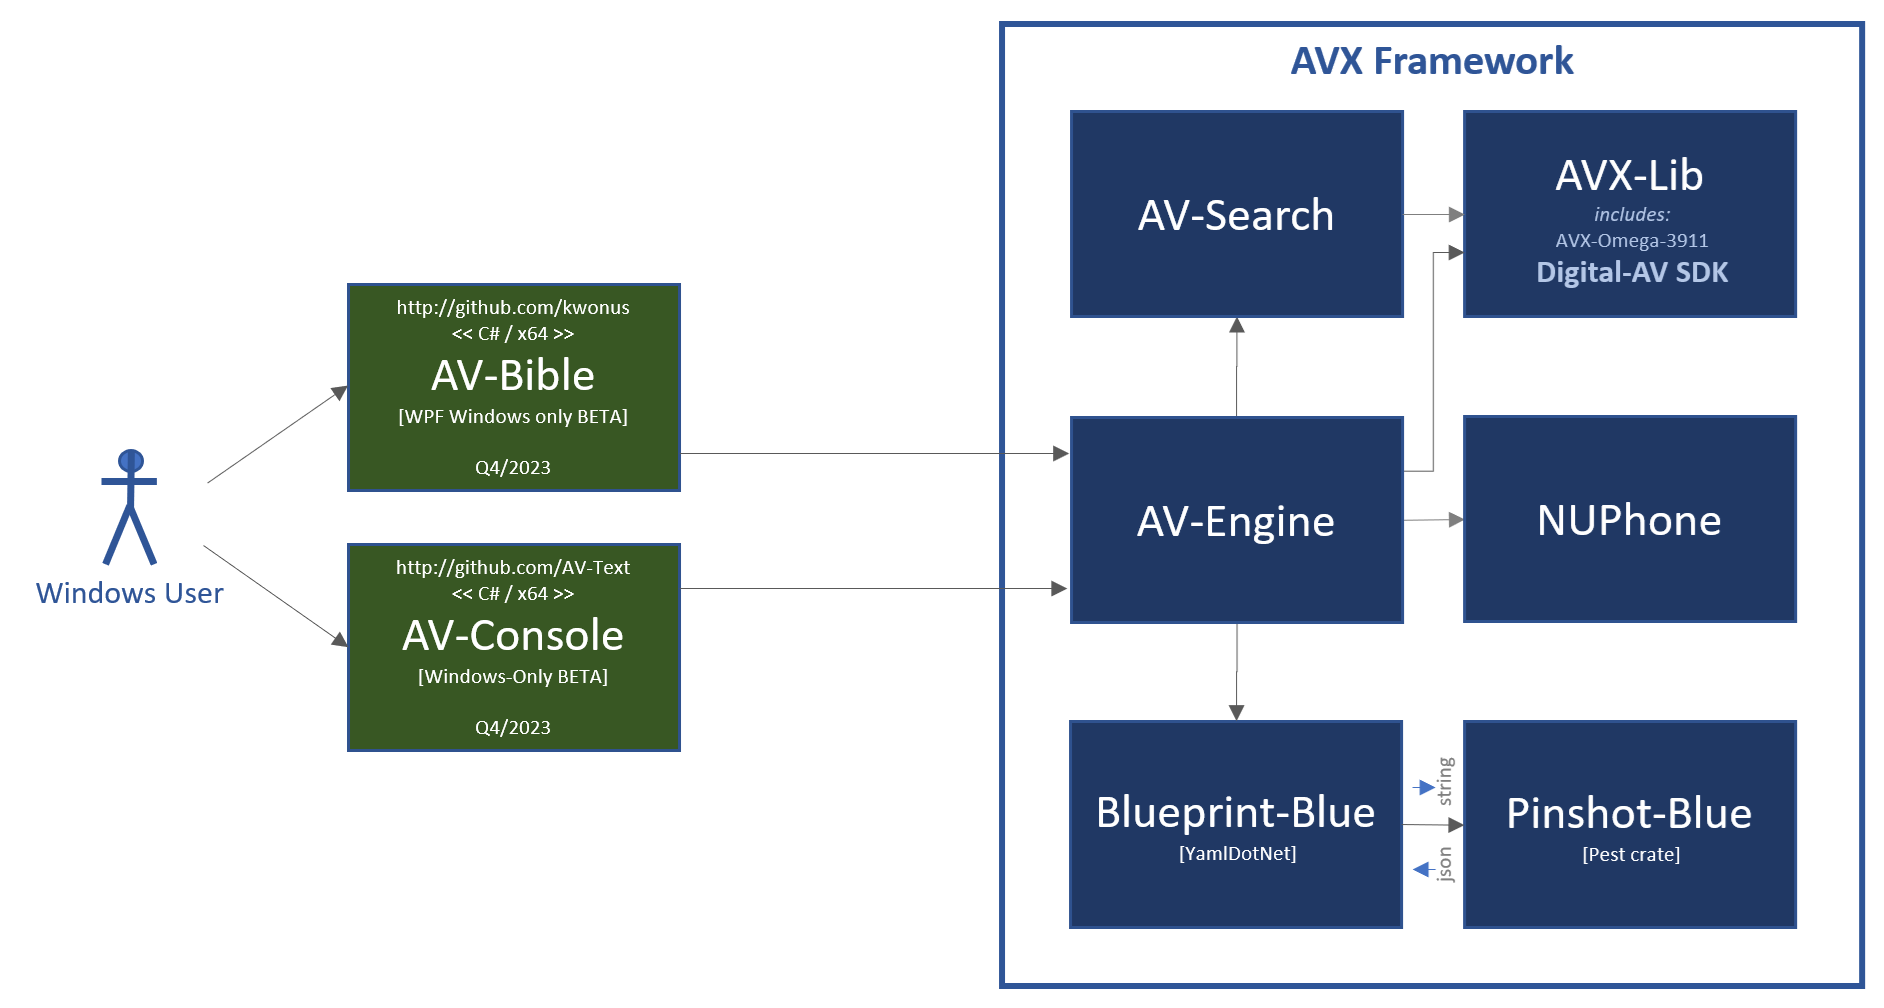
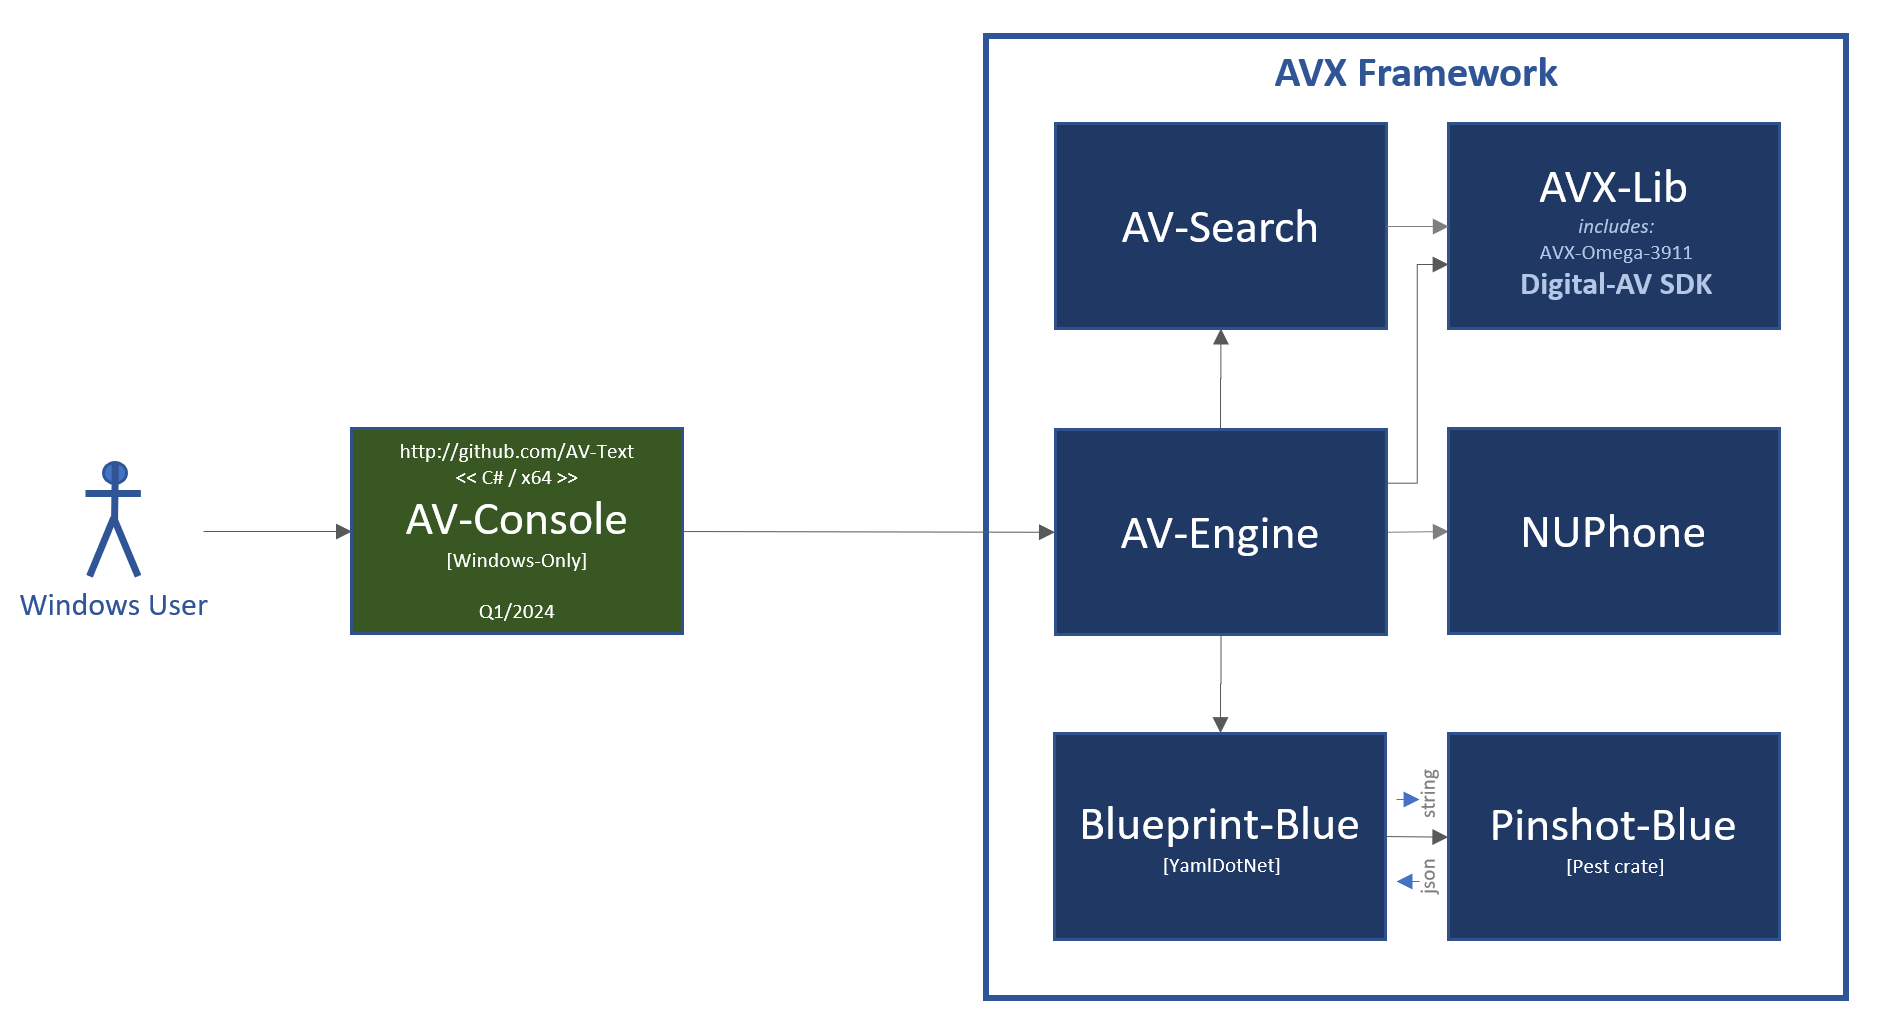
update the roadmap docs

Changed region(s): [[0.4941, 0.0, 1.0, 0.9841], [0.1544, 0.2768, 0.3706, 0.7688], [0.0, 0.4306, 0.1235, 0.6151]]

diff --git a/README.md b/README.md
@@ -111,17 +111,17 @@ AV-Engine is an in-process .NET 8 assembly. It uses standard C# interfaces for p
 
 ### Development Roadmap
 
-A BETA release of AV-Bible and AV-Console are planned for CYQ1/2024. This beta implementation is depicted in Figure 4-1.
+AV-Console is available as of February 2024. This implementation is depicted in Figure 4-1.
 
 ![](AVX-Roadmap-2023.png)
 
-**Figure 4-1**: Initial BETA release early in 2024 [revision #3C12]
+**Figure 4-1**: Initial availability of AV-Console is in Q1/2024 [revision #4214; this console-app is a build-it-yourself release]
 
-I plan to harden AV-Bible (Windows desktop application) and release it into the Microsoft Store in the second or third quarter of 2024. That release will gut the existing search engine of AV-Bible-2021.  A refactored AV-2024 will include a fully functional implementation of AVX-Framework. Figure 4-2, also identifies additional artifacts expected after AV-Bible-2024 is deployed to the Microsoft store:
+I plan to release AV-Bible (Windows desktop [WPF] application) in the Microsoft Store in the second or quarter of 2024. That release will gut the existing search engine of AV-Bible-2021.  A refactored AV-2024 will include a fully functional implementation of AVX-Framework. Figure 4-2, identifies this an additional release expected after AV-Bible-2024 becomes available in Q2.
 
 ![](AVX-Roadmap-2024.png)
 
-**Figure 4-2**: Roadmap for AV-Bible-2024 and other releases to begin in CYQ2 of 2024 [revision #3C12]
+**Figure 4-2**: Deployment Roadmap for AV-Bible and related artifacts in CY2024  [revision #4214]
 
 ### Implementation Status
 
@@ -131,7 +131,7 @@ All source-code can be found at https://github.com/kwonus.
 
 The AV-Bible application is [currently available](https://apps.microsoft.com/detail/9NN9X59QTZ3J?gl=US&hl=en-us) in the Microsoft Store. The existing app is being retrofitted to utilize the  forthcoming AVX-Framework. With this new framework, AV-Bible will expose dozens of new features and capabilities. And to be honest, the feature set of the existing app is a bit limited (as it sports an older SDK, and an earlier, v1-alpha release of Quelle).
 
-While not identified on the roadmap in Figure 4-2, a CYQ4/2024 release of Digital-AV is expected to add NUPhone pronunciations for the Elizabethan-English lexicon. Currently, only NUPhone pronunciations exist for the Modern-English lexicon.
+While not identified on the roadmap in Figure 4-2, a of Digital-AV late in 2024 is expected to add NUPhone pronunciations for the Elizabethan-English lexicon. Currently, only NUPhone pronunciations exist for the Modern-English lexicon.
 
 ### Final Thoughts
 
